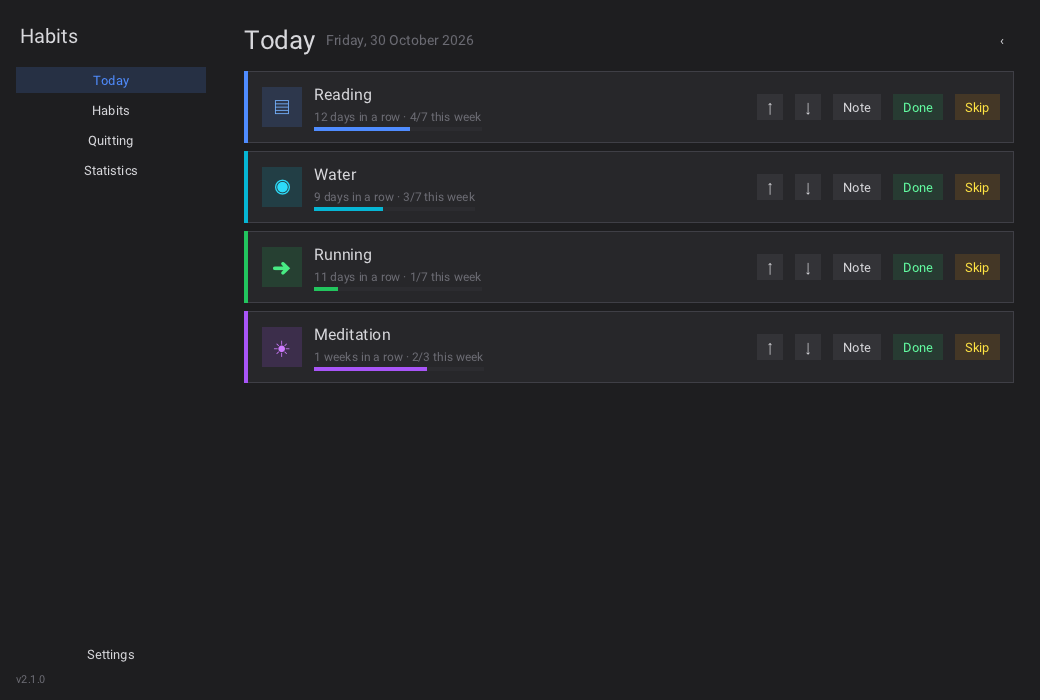
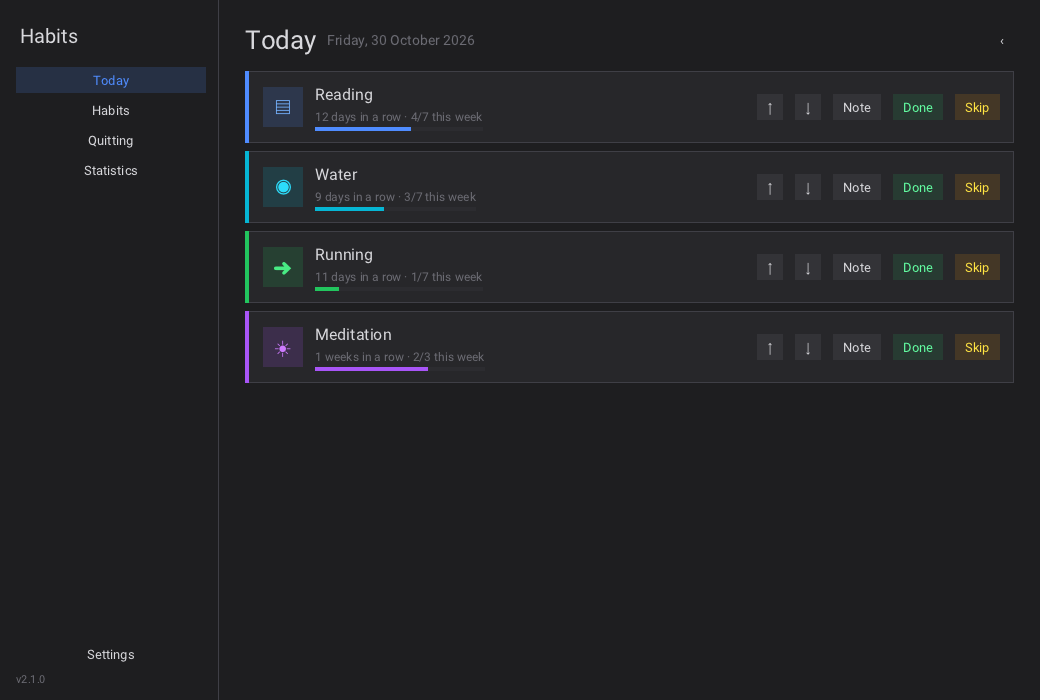
Separate the menu from the content with a one-pixel border
The sidebar keeps the panel colour and a vertical line in the theme's border
colour runs the full height between it and the working area, the same way the
cards are outlined.

diff --git a/src/desktop/main.c b/src/desktop/main.c
@@ -1593,6 +1593,15 @@ static void rebuild_all(void) {
     Rwidget_add_child(g_app.root, sidebar);
     build_sidebar(sidebar);
 
+    /* a one-pixel line between the menu and the content, like the card outlines */
+    Rid separator = Rwidget_create(R_WIDGET_BORDER);
+    Rwidget_set_size(separator, 1.0f, 0.0f);
+    float br, bg, bb, ba;
+    Rtheme_get_color(R_COLOR_BORDER, &br, &bg, &bb, &ba);
+    Rborder_set_background(separator, br, bg, bb, 1.0f);
+    Rslot_set_auto(separator);
+    Rwidget_add_child(g_app.root, separator);
+
     g_app.content = ui_vbox(14.0f);
     Rslot_set_fill(g_app.content, 1.0f);
     Rslot_set_padding(g_app.content, 26.0f, 22.0f, 26.0f, 20.0f);
